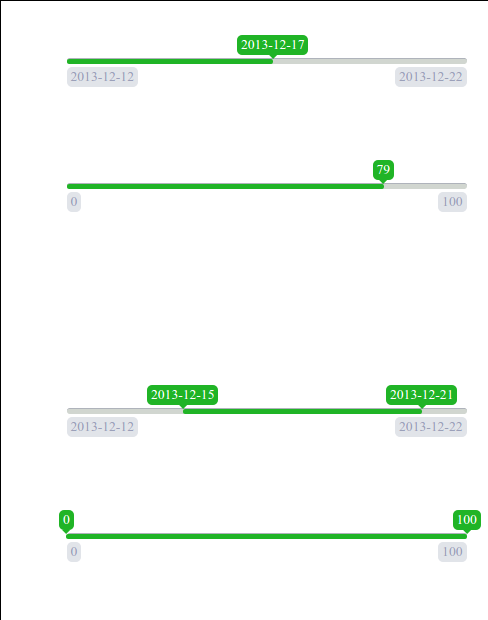
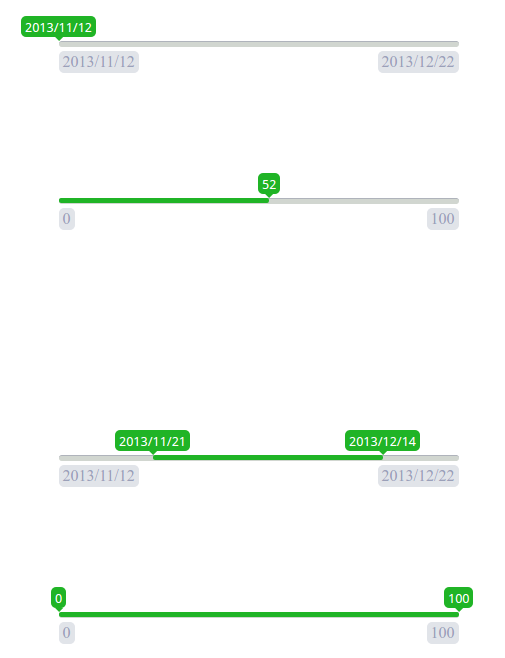
modify README.md

diff --git a/sample/sample.js b/sample/sample.js
@@ -17,28 +17,28 @@
         return fmt;
     }
 
-    var startDate = new Date("2013-11-12"),
-        endDate = new Date("2013-12-22"),
+    var startDate = new Date("2013/11/12"),
+        endDate = new Date("2013/12/22"),
         offset = endDate - startDate;
 
     $("#date_range").rangepicker({
-        startValue: dateFormat(startDate, "yyyy-MM-dd"),
-        endValue: dateFormat(endDate, "yyyy-MM-dd"),
+        startValue: dateFormat(startDate, "yyyy/MM/dd"),
+        endValue: dateFormat(endDate, "yyyy/MM/dd"),
         translateSelectLabel: function(currentPosition, totalPosition) {
             var timeOffset = offset * ( currentPosition / totalPosition);
             var date = new Date(+startDate + parseInt(timeOffset));
-            return dateFormat(date, "yyyy-MM-dd");
+            return dateFormat(date, "yyyy/MM/dd");
         }
     });
 
     $("#double_date_range").rangepicker({
         type: "double",
-        startValue: dateFormat(startDate, "yyyy-MM-dd"),
-        endValue: dateFormat(endDate, "yyyy-MM-dd"),
+        startValue: dateFormat(startDate, "yyyy/MM/dd"),
+        endValue: dateFormat(endDate, "yyyy/MM/dd"),
         translateSelectLabel: function(currentPosition, totalPosition) {
             var timeOffset = offset * ( currentPosition / totalPosition);
             var date = new Date(+startDate + parseInt(timeOffset));
-            return dateFormat(date, "yyyy-MM-dd");
+            return dateFormat(date, "yyyy/MM/dd");
         }
     });
 

diff --git a/README.md b/README.md
@@ -1,67 +1,78 @@
 #range-picker
-一个简单的Jquery范围选择插件
 
-效果图
+a range picker of JQuery plugins
+
+Screenshot
 ---
 ![date-picker](./images/range-picker.png)
 
-示例
+Examples
 ---
-1. 查看项目目录下的 `sample` 文件夹
-2. [jsfiddle示例](https://jsfiddle.net/cqmyg/me1dmz9e/4/)
+1. see `sample` folder
+2. [jsfiddle](https://jsfiddle.net/cqmyg/me1dmz9e/4/)
 
-使用
+Browser Support
+---
+1. chrome
+2. firefox
+3. IE8+
+
+Requirements
+---
+1. JQuery 1.7+
+
+Usage
 ---
 
-###引入css
+###Import css
 
 ```html
-<!-- 注意: 请替换为自己的文件路径 -->
 <link rel="stylesheet" href="../css/range-picker.css" type="text/css" charset="utf-8" />
 
 ```
 
-###引入javascript
+###Import javascript
 
 ```html
-<!-- 注意: 请替换为自己的文件路径 -->
 <script src="../bower_components/jquery/dist/jquery.js" type="text/javascript" charset="utf-8"></script>
 <script src="../src/range_picker.js" type="text/javascript" charset="utf-8"></script>
 
 ```
-###调用
+###Call
 ```javascript
 $("#date_picker").rangepicker();
 ```
 
-参数
+Options
 ---
 
 ####startValue
 
-默认值: 无
+default: none
 
-必须: 是
+must: true
 
-选择插件的左下角的标签, 如"2016-01-03"
+the left label, eg: "2016/01/03"
 
 ####endValue
 
-默认值: 无
+default: none
 
-必须: 是
+must: true
 
-插件右下角的标签, 如 "2016-03-12"
+the right label, eg: "2016/03/12"
 
 ####type
 
-默认值: "single"
+type: String
 
-必须: 否
+default: single
 
-添加开始值的选择游标
+must: false
 
-例子
+Choose picker type, could be `single` - for one cursor, or `double` for two cursors
+
+example
 ```js
 $("#number_range").rangepicker({
     type: "double",
@@ -75,18 +86,20 @@ $("#number_range").rangepicker({
 
 ####translateSelectLabel
 
-类型: `Function`
+type: `Function`
 
-默认值: 无
+default: none
 
-######参数
-1. `currentPosition` 游标的当前位置
-2. `totalWidth` 整个进度条的宽度
+must: true
 
-用于获取进度条上面滑动游标的文本内容的回调函数
+######parameter
+1. `currentPosition` cursor position
+2. `totalWidth` the width of process bar
+
+get the text for cursor
 
 
-例子
+example
 ```js
 $("#number_range").rangepicker({
     startValue: 0,
@@ -97,39 +110,37 @@ $("#number_range").rangepicker({
 });
 ```
 
-方法
+Function
 ---
 
 ####getSelectValue
 
-获取所选择范围值的回调函数
+get selected range
 
 
-编译和测试
+Build
 ---
 
-###搭建环境
+First, get a copy of the git repo by running:
 
-######安装 `grunt` 和 `bower`
-
-######克隆项目
-```
-git clone https://git.oschina.net/syjefbz/range-picker.git
+```shell
+git clone https://github.com/zhangtasdq/range-picker.git
 ```
 
-######下载依赖包
-```
-// 在项目目录下运行
-bower install
-npm install
+Enter the directory and install the dependencies:
+
+```shell
+cd range-picker && npm install && bower install
 ```
 
-###编译
-```
+Build
+
+```shell
 grunt
 ```
 
-###运行测试
-```
+Test
+
+```shell
 grunt test
 ```
